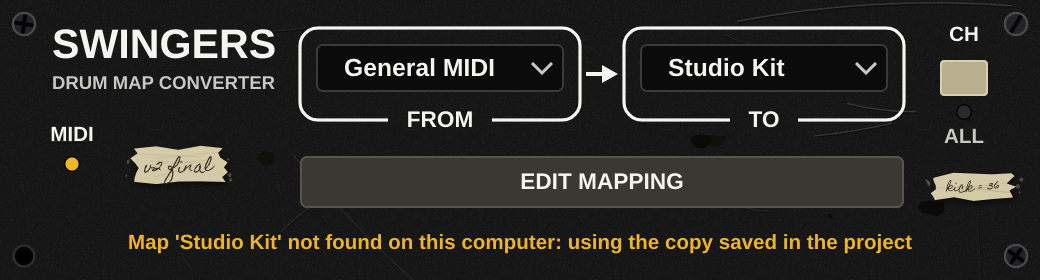
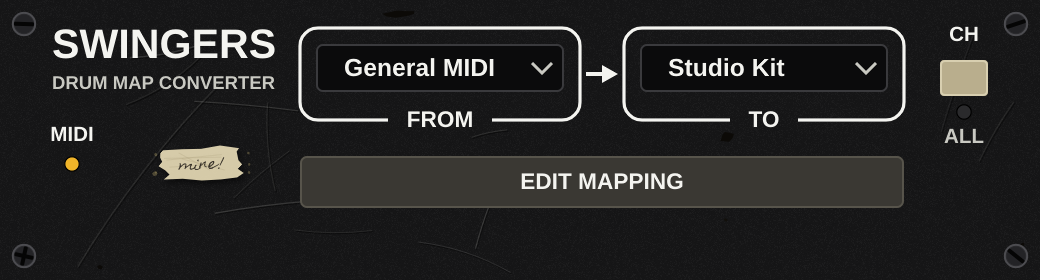
docs(screenshots): compact panel without the warning row

diff --git a/tools/render_editor.cpp b/tools/render_editor.cpp
@@ -1,5 +1,8 @@
-// Renders the plugin editor to a PNG: swingers_render <output.png> [scale] [--patchbay [--all-notes] [--lit]] [--map-editor] [--standalone]
-// Uses a throw-away user root with one extra map and one broken file, so the lists show both.
+// Renders the plugin editor to a PNG:
+//   swingers_render <output.png> [scale] [--with-warning] [--patchbay [--all-notes] [--lit]] [--map-editor] [--standalone]
+// Uses a throw-away user root with extra maps and one broken file, so the lists show both.
+// By default the compact panel shows General MIDI -> Studio Kit, both on this "computer" (no warning row);
+// --with-warning loads a project whose To map exists only as the project's copy, so the amber warning row shows.
 // --patchbay renders the "Edit mapping" view instead, with the preview's example: two user maps, one direct
 // cable (40 -> 33) and one disconnected note (37); --all-notes shows all 128 rows, --lit lights note 36.
 // --map-editor renders "Edit maps" on the preview's Metal Kit.
@@ -82,13 +85,13 @@ int main (int argc, char** argv)
 {
     if (argc < 2)
     {
-        std::fprintf (stderr, "usage: swingers_render <output.png> [scale] [--patchbay [--all-notes] [--lit]] [--map-editor] [--standalone]\n");
+        std::fprintf (stderr, "usage: swingers_render <output.png> [scale] [--with-warning] [--patchbay [--all-notes] [--lit]] [--map-editor] [--standalone]\n");
         return 2;
     }
 
     juce::ScopedJuceInitialiser_GUI gui;
     float scale = 2.0f;
-    bool patchbay = false, allNotes = false, lit = false, mapEditor = false, standalone = false;
+    bool patchbay = false, allNotes = false, lit = false, mapEditor = false, standalone = false, withWarning = false;
     for (int i = 2; i < argc; ++i)
     {
         const juce::String arg (argv[i]);
@@ -102,6 +105,8 @@ int main (int argc, char** argv)
             mapEditor = true;
         else if (arg == "--standalone")
             standalone = true;
+        else if (arg == "--with-warning")
+            withWarning = true;
         else
             scale = arg.getFloatValue();
     }
@@ -118,7 +123,7 @@ int main (int argc, char** argv)
         {
             swingers::MapLibrary writer (root);
             writer.saveMap (map);
-            if (patchbay || mapEditor || standalone)
+            if (patchbay || mapEditor || standalone || ! withWarning)
                 writePatchbayMaps (writer);
         }
         root.getChildFile ("maps/broken.swmap.json").replaceWithText ("{ not json");
@@ -137,6 +142,10 @@ int main (int argc, char** argv)
             overrides.connect (40, 33);
             overrides.drop (37);
             processor.applyOverrides (overrides);
+        }
+        else if (! withWarning)
+        {
+            processor.selectMaps (swingers::kGeneralMidiId, "studio-kit");
         }
         else
         {
